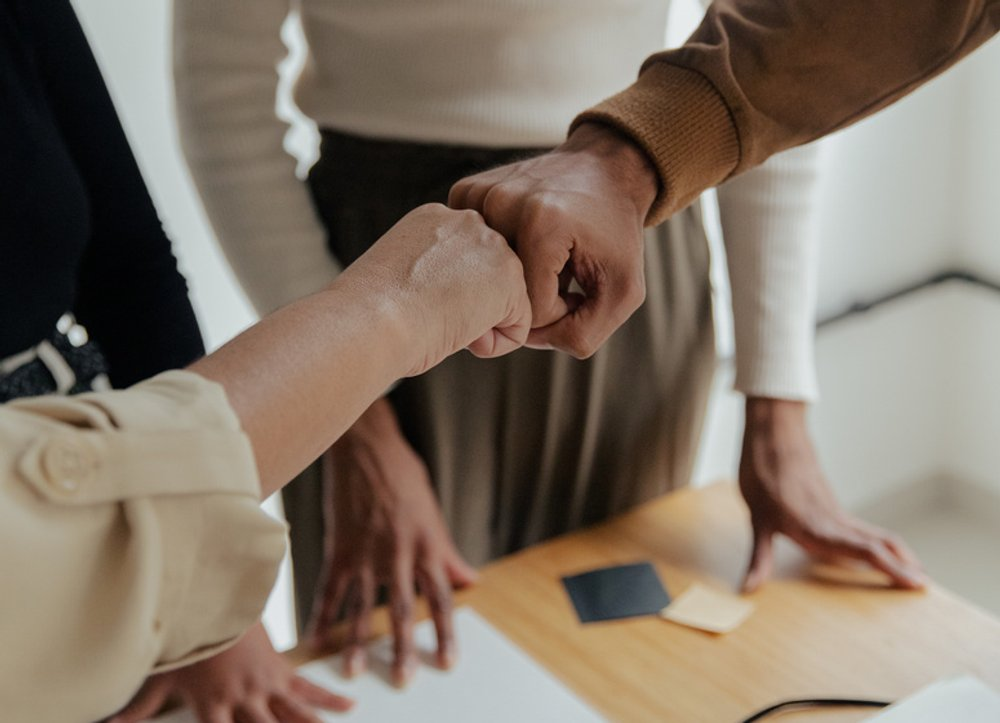
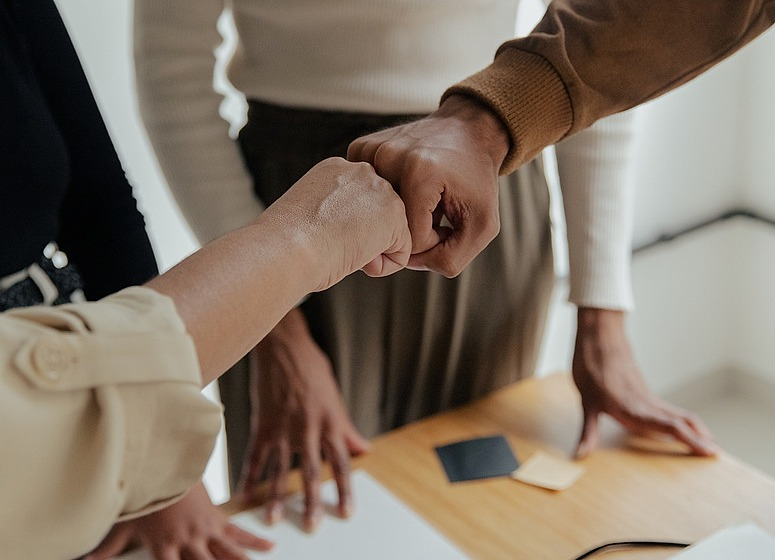
Fix blurry Our Story photo
The image was being upscaled past its native resolution (both by an
unnecessary resize-up during export, and by stretching to fill the full
section width in the browser). Re-exported at native size and capped the
display width so it never renders larger than the source pixels.

diff --git a/app/about/page.tsx b/app/about/page.tsx
@@ -63,9 +63,9 @@ export default function AboutPage() {
         <Image
           src="/images/our-story-wide.jpg"
           alt="Created To Shine Ministries team members joining hands together"
-          width={1400}
-          height={1012}
-          className="mt-8 w-full rounded-xl object-cover shadow-md"
+          width={775}
+          height={560}
+          className="mx-auto mt-8 w-full max-w-[775px] rounded-xl object-cover shadow-md"
           priority
         />
         <div className="mt-10 grid gap-10 lg:grid-cols-3">
